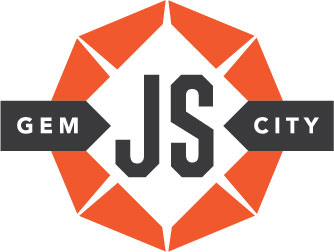
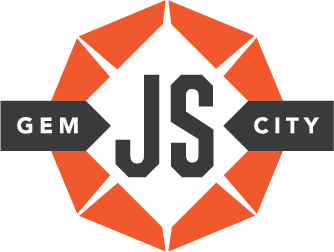
Trying to fix image corruption problem.

diff --git a/scss/_common.scss b/scss/_common.scss
@@ -3,7 +3,7 @@ header {
     margin: 20px auto;
     width: 334px;
     height: 252px;
-    background: url(/img/gemCityJS.png) no-repeat;
+    background: url(/img/gemCityJS.jpg) no-repeat;
     text-indent: -9999px;
   }
 }
